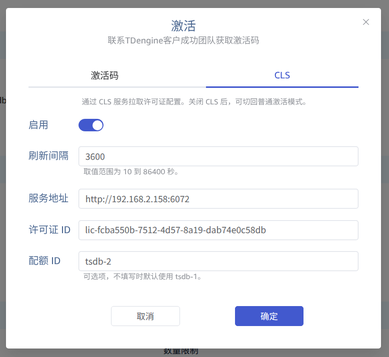
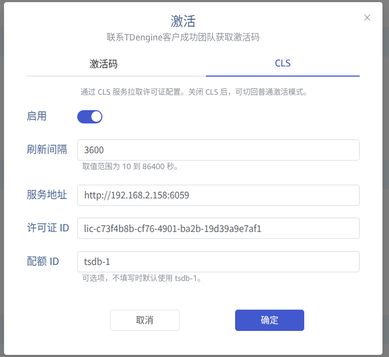
chore(docs): update cls info (rd-public/tsdb!1266)

diff --git a/docs/en/14-reference/01-components/13-license-center.md b/docs/en/14-reference/01-components/13-license-center.md
@@ -1,0 +1,158 @@
+---
+title: License Center Reference
+sidebar_label: License Center
+toc_max_heading_level: 4
+---
+
+The License Center is a service used to manage TDengine TSDB / IDMP licensing. It consists of the ELS (Enterprise License Server) management component on the central side and the CLS (Customer License Server) management component on the local side. ELS is mainly deployed by the TDengine service provider, while CLS is deployed on the customer's premises. This document uses a locally deployed CLS as an example to introduce the complete licensing workflow. (Note: All IDs and licenses shown in this document are for demonstration purposes only and have no real meaning.)
+
+## Prerequisites
+
+### Deployment and Installation
+
+Installation package:
+
+```bash
+license-center-cls-0.1.3-linux-amd64.tar.gz
+```
+
+After extracting it, you can see the deployment-related scripts:
+
+```bash
+scripts/
+├── install.sh
+├── start.sh
+├── status.sh
+├── stop.sh
+└── uninstall.sh
+```
+
+Run `install.sh` and then `start.sh` to start the service.
+
+### Configuration
+
+The default configuration file is located at `/etc/taoscls/taoscls.toml`:
+
+```toml
+[local]
+# The address the service listens on. The default 0.0.0.0 means listening on all network interfaces.
+listen = "0.0.0.0"
+# The HTTP API service port.
+http_port = 6059
+
+[els]
+# The address of the ELS service.
+host = "license.tdengine.com"
+# The port of the ELS service.
+port = 8094
+# Whether to enable communication with ELS.
+enable = true
+
+[database]
+# The data storage path.
+path = "/var/lib/taoscls"
+
+[log]
+# The log level.
+level = "info"
+# The log file path.
+file = "/var/log/taoscls/taoscls.log"
+# The maximum size of a single rolling log file.
+max_size = "1GB"
+# The number of rolling log files.
+max_files = 3
+# Optional fixed timezone offset for log timestamps. When omitted, the system local timezone is used.
+# timezone = "+08:00"
+```
+
+### Local Access
+
+- After starting the CLS service locally, access it in a browser at:
+  - CLS: `http://localhost:6059`
+- The local demo accounts used in this document are:
+  - Username: `root`
+  - Password: `taosdata`
+
+## Service Information
+
+1. After the service starts, open the CLS management console in a browser and log in.
+
+2. After logging in, you can view information such as the **Public Key Token** on the **Local Information** page, as shown in the following figure:
+
+![Local information](../../assets/cls-local.png)
+
+## Offline Licensing
+
+### 1. Obtain a License
+
+Provide the **Public Key Token** from the CLS **Local Information** page to the TDengine service provider. The provider will return a license file named `offline-license.key`.
+
+### 2. Import the License
+
+On the CLS **License** page, click **Offline Import** in the upper right corner, select `offline-license.key`, and then click **Import**. After a successful import, the license appears in the license list on the CLS **License** page.
+
+### 3. View Quotas
+
+Go to the **Quota** page on the left to view the quotas and authorization item details split from the license, including the license ID, quota ID, authorization item, category, type, value, and expiration time.
+
+![Quota details](../../assets/cls-quota.png)
+
+## Online Licensing
+
+The overall workflow of online licensing is essentially the same as offline licensing. The difference lies in how the license is obtained. In online mode, if the CLS is connected to the ELS, the license authorized on the ELS side is automatically synchronized to the CLS. In offline mode, you must manually import the license through an offline channel such as a file.
+
+## Connecting to CLS
+
+Currently, both TSDB/IDMP clusters can communicate with the CLS through the relevant configuration, and the specific information can be viewed on the CLS cluster management page.
+
+### TSDB Configuration
+
+TSDB can be configured to connect to the CLS service via the taosExplorer page, or by using TSDB SQL commands.
+
+#### taosExplorer
+
+On the **System Management / License** page of the taosExplorer component, click the **Activate License** button to see the following configuration page:
+
+![Activate license](../../assets/explorer-active-license.png)
+
+The meaning of each configuration field is the same as the SQL configuration parameters below. After clicking OK, you can see the CLS configuration information on the License page:
+
+![CLS configuration](../../assets/explorer-cls.png)
+
+#### SQL
+
+TSDB can use the following SQL commands to configure CLS service information. An example is shown below:
+
+```sql
+ALTER ALL DNODES 'clsEnabled' '1';
+ALTER ALL DNODES 'clsRefreshInterval' '15';
+ALTER ALL DNODES 'clsUrl' 'http://192.168.2.158:6059';
+ALTER ALL DNODES 'clsLicenseId' 'lic-53467044-2dad-4be2-9280-adacb201a644';
+ALTER ALL DNODES 'clsQuotaSlotId' 'tsdb-1';
+```
+
+Description:
+
+`clsEnabled`: Indicates whether to enable the CLS license feature.
+
+`clsRefreshInterval`: Indicates the interval for communicating with the CLS service.
+
+`clsUrl`: Indicates the CLS service address.
+
+`clsLicenseId`: Indicates the license ID to obtain.
+
+`clsQuotaSlotId`: Indicates the quota ID to obtain.
+
+### IDMP Configuration
+
+The page configuration for the new version is currently under development. Stay tuned.
+
+### CLS Cluster Management
+
+After configuring the CLS in TSDB/IDMP, you can see the corresponding cluster information on the CLS **Cluster** page:
+
+![CLS cluster](../../assets/cls-cluster.png)
+
+On the **Cluster Usage** page, you can view the usage information of specific authorization items:
+
+![CLS cluster usage](../../assets/cls-cluster-usage.png)
